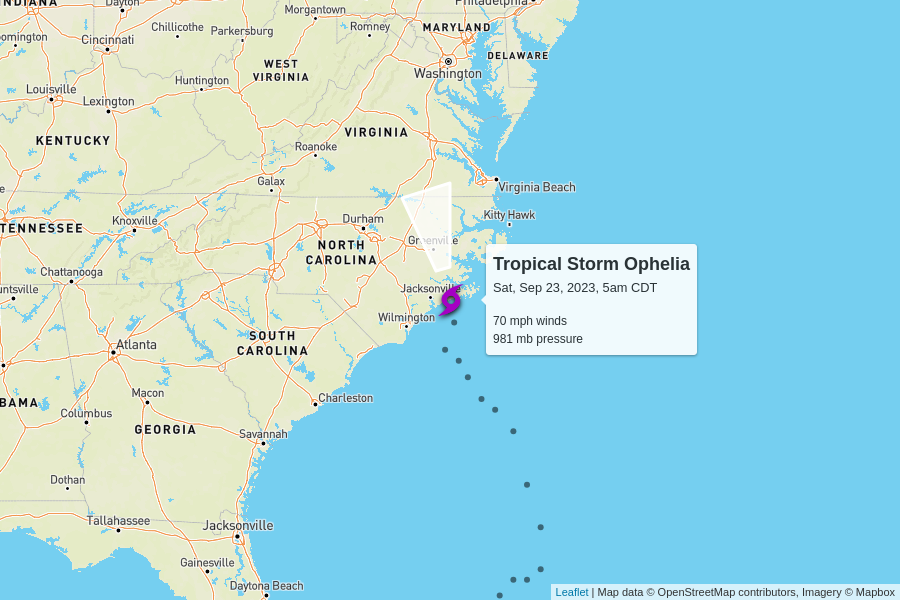
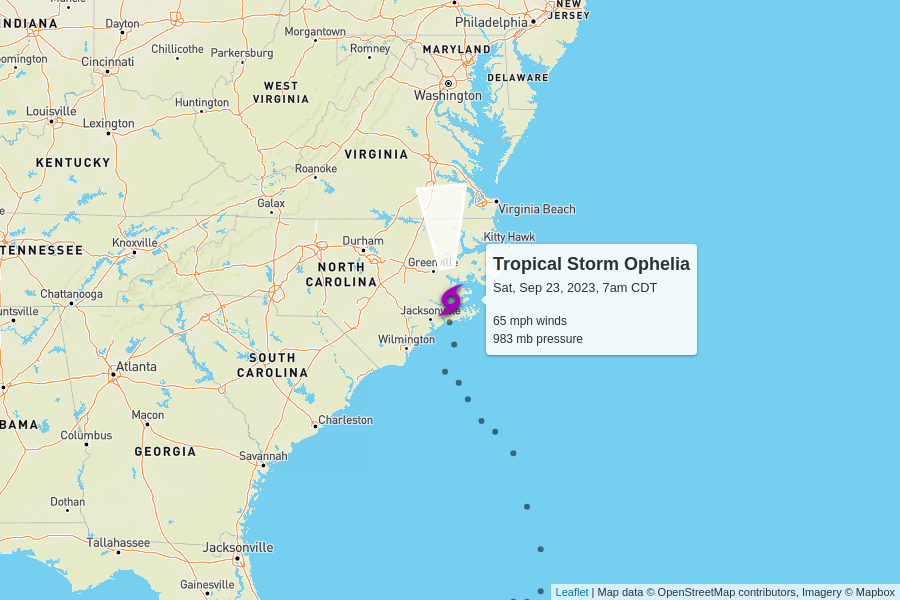
automatic update

diff --git a/docs/index.html b/docs/index.html
@@ -102,7 +102,7 @@
         <td colspan="6" class="storm category-0" >
           <h2>
             Tropical Storm Ophelia
-            <p class="updated">last updated <span data-time>2023-09-23T10:20:00.000Z</span></p>
+            <p class="updated">last updated <span data-time>2023-09-23T12:00:00.000Z</span></p>
           </h2>
         </td>
       </tr>
@@ -117,12 +117,12 @@
       </tr>
       <tr>
         <td class="spacer"></td>
-        <td>70 mph<br>0 mph since last update</td>
-        <td>981 mb<br>0 mb since last update</td>
+        <td>65 mph<br>-5 mph since last update</td>
+        <td>983 mb<br>+2 mb since last update</td>
         <td>
-          9 mph to the north-northwest
+          13 mph to the north
           <br/>
-          <span style="display: inline-block; font-size: 1.5em; transform: rotate(345deg);">↑</span>
+          <span style="display: inline-block; font-size: 1.5em; transform: rotate(355deg);">↑</span>
         </td>
         <td><a href="https://raw.githubusercontent.com/mgwalker/atlantic-hurricanes/main/data/csv/AL162023.csv">AL162023.csv</a></td>
         <td><a href="https://www.nhc.noaa.gov/archive/2023/OPHELIA.shtml?">NHC advisories</a></td>
